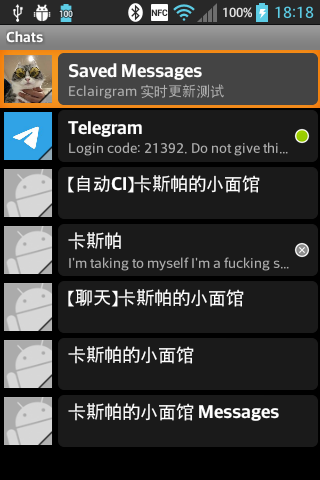
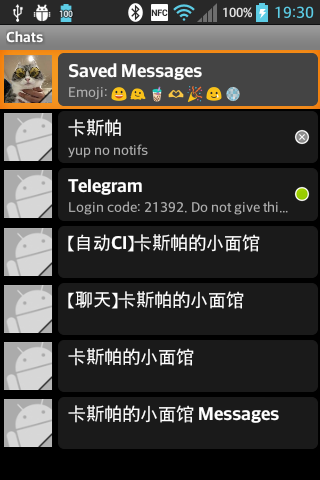
聊天界面改用原版 Talk 的框架控件与配色，清理不一致的气泡
- 联系人标题栏改用系统 title_bar_medium 9-patch（取自 AOSP 源码，
  framework-res 里的是编译过的、不能再被 aapt 处理）
- 输入行改用 Talk 的 bottombar_landscape_565 背景（与原版一致）
- 消息气泡改为干净的圆角形状（收到浅灰、发出浅蓝），不再用列表选中态的橙色气泡
- 标题栏副标题：用户显示「在线/离线」，群组/频道显示类型；非用户不显示在线图标
- 详情页标题栏同样改用系统 9-patch
- 头像预取减少到 6 个并在列表暂停时停止，避免占用连接拖慢聊天加载

diff --git a/app/single/src/cc/wuersan008/eclairgram/ChatActivity.java b/app/single/src/cc/wuersan008/eclairgram/ChatActivity.java
@@ -57,6 +57,7 @@ public class ChatActivity extends Activity {
     private String mUsername;
     private long mId;
     private int mParticipants;
+    private boolean mOnline;
 
     private final Handler mMain = new Handler(Looper.getMainLooper());
     private ArrayAdapter<Msg> mAdapter;
@@ -75,11 +76,14 @@ public class ChatActivity extends Activity {
         mUsername = getIntent().getStringExtra("username");
         mId = getIntent().getLongExtra("id", 0);
         mParticipants = getIntent().getIntExtra("participants", 0);
+        mOnline = getIntent().getBooleanExtra("online", false);
 
         requestWindowFeature(android.view.Window.FEATURE_NO_TITLE);
         setContentView(R.layout.ec_chat);
         ((TextView) findViewById(R.id.ec_chat_title)).setText(mName);
-        ((TextView) findViewById(R.id.ec_chat_subtitle)).setText(typeLabel(mType));
+        ((TextView) findViewById(R.id.ec_chat_subtitle)).setText(
+                mType == 0 ? getString(mOnline ? R.string.ec_online : R.string.ec_offline)
+                           : typeLabel(mType));
 
         ImageView headerAvatar = (ImageView) findViewById(R.id.ec_header_avatar);
         android.graphics.Bitmap b = AvatarCache.get(mPhotoId);
@@ -90,8 +94,15 @@ public class ChatActivity extends Activity {
                 openDetails();
             }
         });
-        ((ImageView) findViewById(R.id.ec_header_presence))
-                .setImageResource(android.R.drawable.presence_online);
+        ImageView headerPresence = (ImageView) findViewById(R.id.ec_header_presence);
+        if (mType == 0) {
+            headerPresence.setVisibility(View.VISIBLE);
+            headerPresence.setImageResource(mOnline
+                    ? android.R.drawable.presence_online
+                    : android.R.drawable.presence_offline);
+        } else {
+            headerPresence.setVisibility(View.GONE);
+        }
         mList = (ListView) findViewById(R.id.ec_messages);
         mInput = (EditText) findViewById(R.id.ec_input);
         Button send = (Button) findViewById(R.id.ec_send);
@@ -111,13 +122,12 @@ public class ChatActivity extends Activity {
                 t.setText(EmojiFont.emojify(ChatActivity.this, m.text, dp(20)));
                 if (m.out) {
                     ((android.widget.LinearLayout) row).setGravity(Gravity.RIGHT);
-                    t.setBackgroundResource(R.drawable.im_bubble_highlight);
-                    t.setTextColor(getResources().getColor(R.color.chat_me));
+                    t.setBackgroundResource(R.drawable.ec_bubble_out);
                 } else {
                     ((android.widget.LinearLayout) row).setGravity(Gravity.LEFT);
-                    t.setBackgroundResource(R.drawable.im_bubble_normal);
-                    t.setTextColor(getResources().getColor(R.color.chat_from));
+                    t.setBackgroundResource(R.drawable.ec_bubble_in);
                 }
+                t.setTextColor(0xff000000);
                 if (m.mediaType != 0) {
                     t.setOnClickListener(new View.OnClickListener() {
                         public void onClick(View x) {

diff --git a/app/single/src/cc/wuersan008/eclairgram/DialogsActivity.java b/app/single/src/cc/wuersan008/eclairgram/DialogsActivity.java
@@ -52,6 +52,7 @@ public class DialogsActivity extends Activity {
     private TelegramManager mTg;
     private volatile boolean mLoading = false;
     private boolean mShot;
+    private volatile boolean mFetchAvatars = true;
 
     private final TelegramManager.Listener mUpd = new TelegramManager.Listener() {
         public void onUpdate() {
@@ -120,6 +121,7 @@ public class DialogsActivity extends Activity {
                 i.putExtra("username", r.username);
                 i.putExtra("id", r.id);
                 i.putExtra("participants", r.participants);
+                i.putExtra("online", r.online);
                 startActivity(i);
             }
         });
@@ -129,12 +131,14 @@ public class DialogsActivity extends Activity {
     @Override
     protected void onResume() {
         super.onResume();
+        mFetchAvatars = true;
         mTg.addListener(mUpd);
         reload();
     }
 
     @Override
     protected void onPause() {
+        mFetchAvatars = false;
         mTg.removeListener(mUpd);
         super.onPause();
     }
@@ -196,7 +200,7 @@ public class DialogsActivity extends Activity {
             public void run() {
                 int n = 0;
                 for (final Row r : rows) {
-                    if (n >= 20) break;
+                    if (!mFetchAvatars || n >= 6) break;
                     if (r.photoId != 0 && !AvatarCache.has(r.photoId)) {
                         AvatarCache.load(mTg, r.peer, r.photoId);
                         n++;
@@ -205,6 +209,10 @@ public class DialogsActivity extends Activity {
                                 mAdapter.notifyDataSetChanged();
                             }
                         });
+                        try {
+                            Thread.sleep(200);
+                        } catch (InterruptedException ignored) {
+                        }
                     }
                 }
             }
